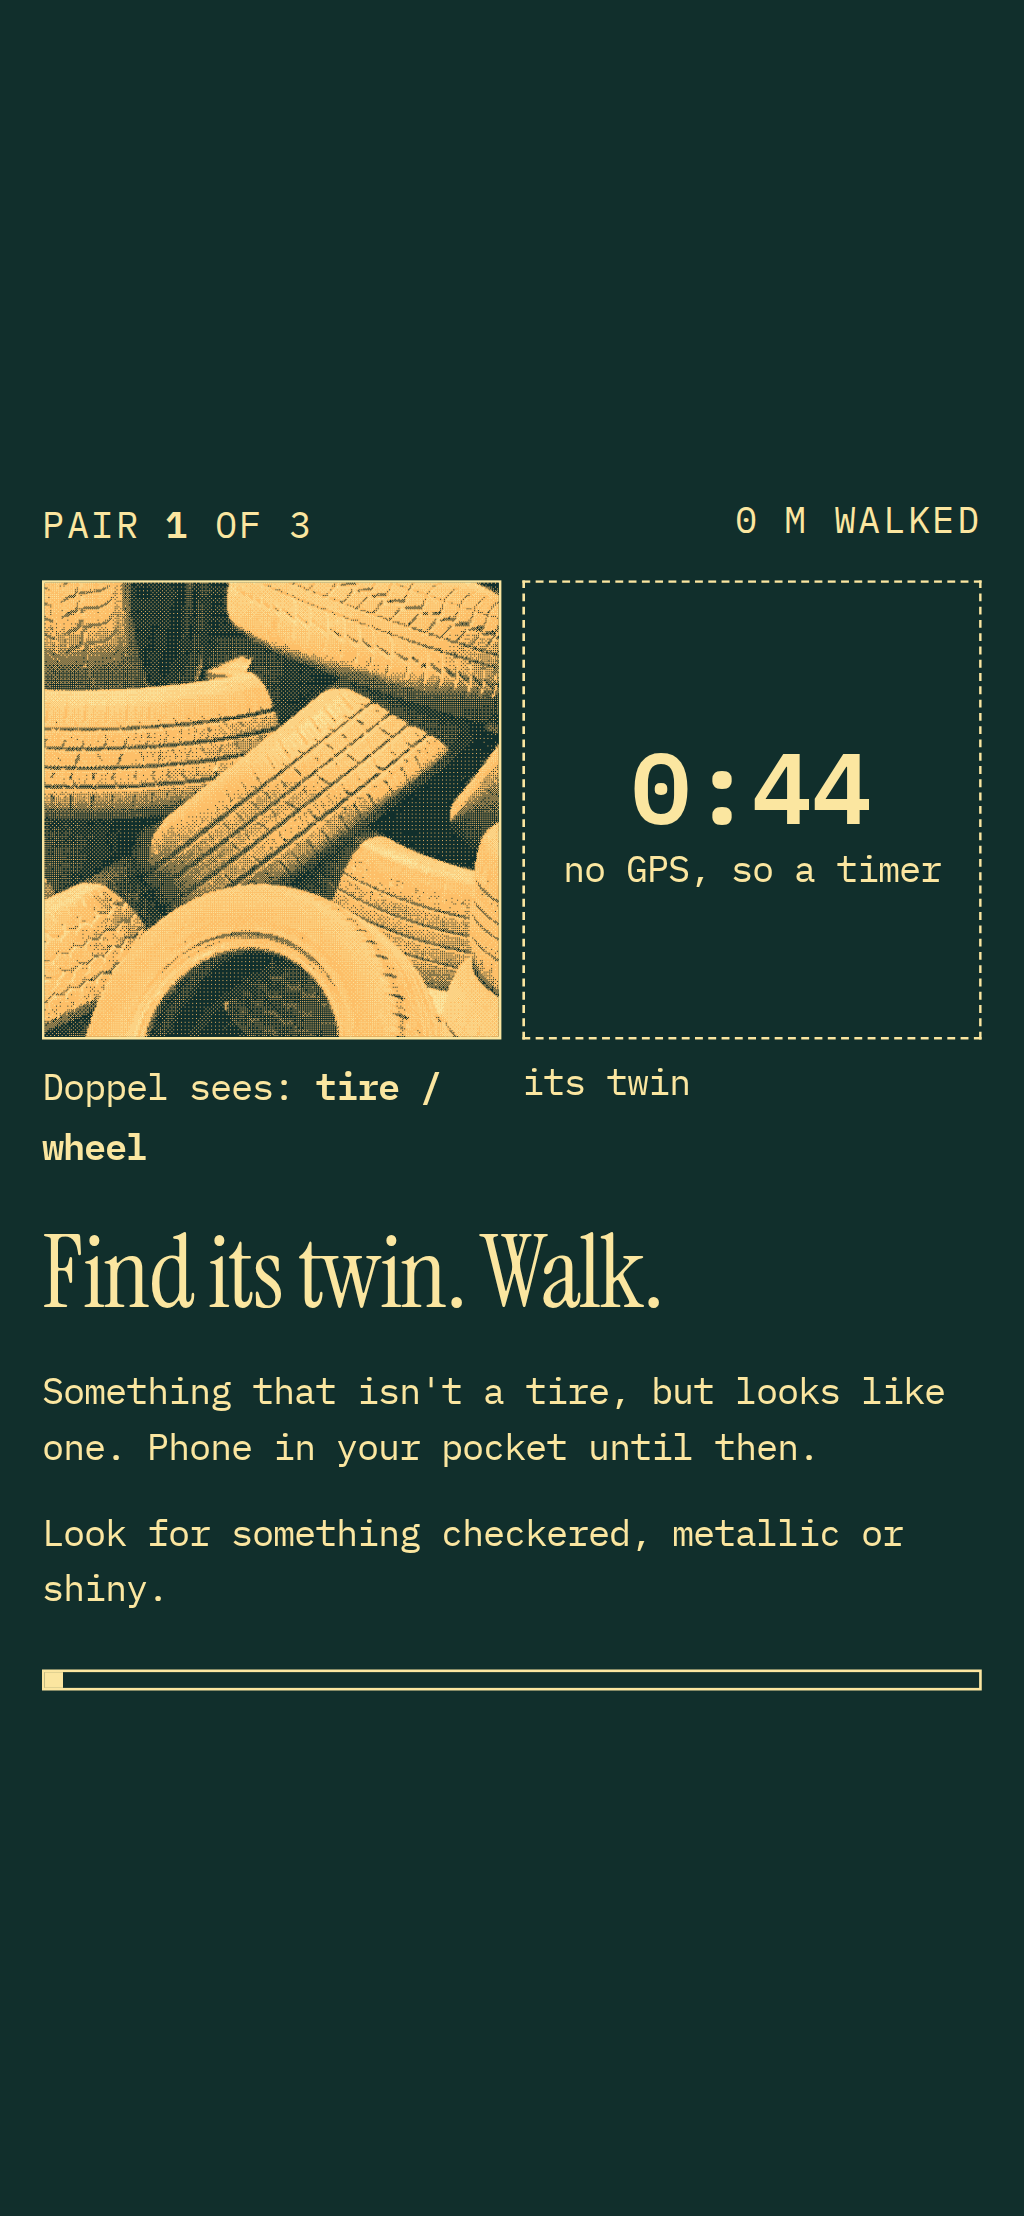
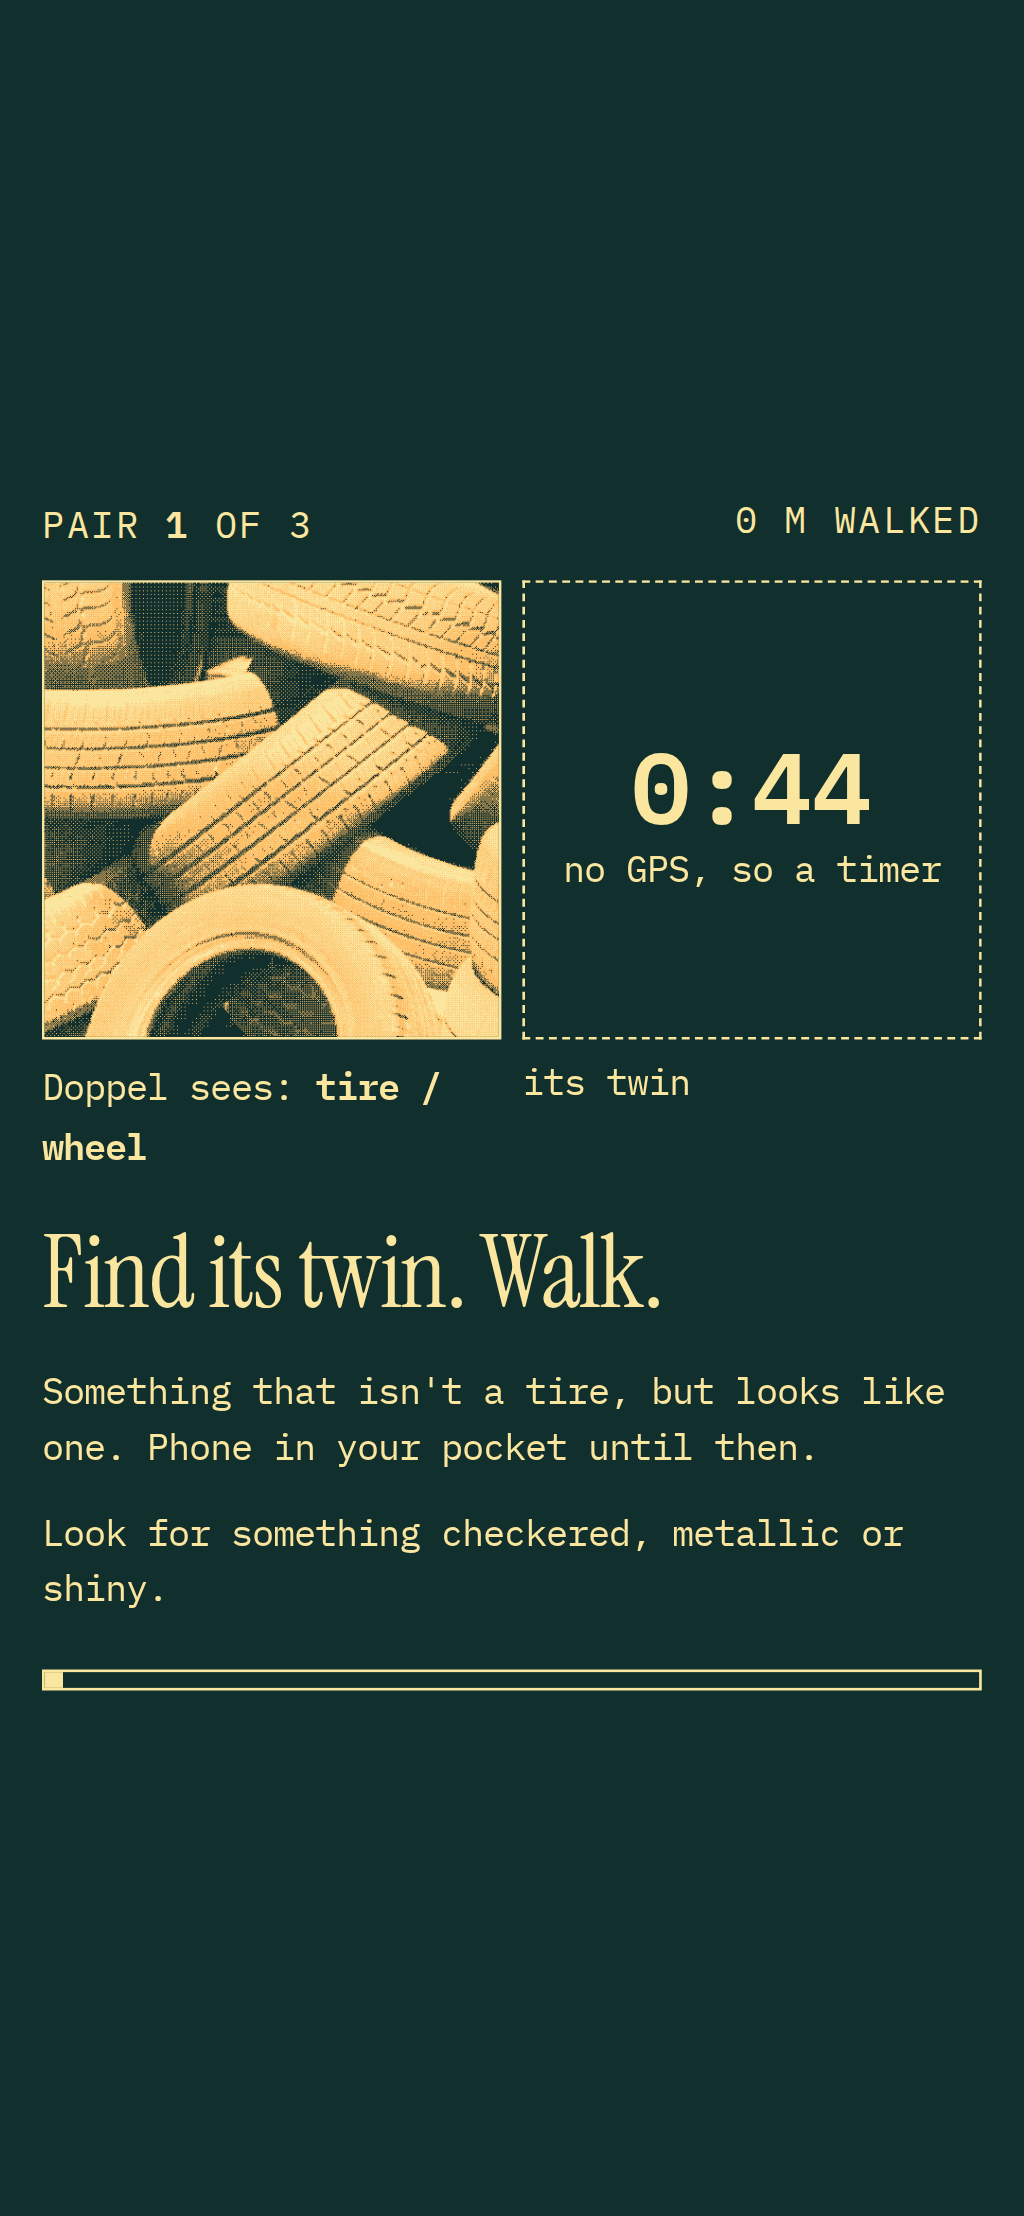
F2: auto-level photos before the Wada print (readable practice cloud)

Changed region(s): [[0.0312, 0.2491, 0.5, 0.4671]]

diff --git a/web/src/print.ts b/web/src/print.ts
@@ -20,15 +20,34 @@ export function inksFor(tone: Tone): Rgb[] {
   return [GROUND, RAMP[start], RAMP[start + 1]];
 }
 
-/** Map RGBA pixels in place. Exported for tests. */
+const luma = (px: Uint8ClampedArray, i: number) => (0.2126 * px[i] + 0.7152 * px[i + 1] + 0.0722 * px[i + 2]) / 255;
+
+/** Luminance at the 2nd and 98th percentiles (auto-level range). Exported for tests. */
+export function levelRange(px: Uint8ClampedArray, lo = 0.02, hi = 0.98): [number, number] {
+  const hist = new Uint32Array(256);
+  for (let i = 0; i < px.length; i += 4) hist[Math.round(luma(px, i) * 255)]++;
+  const n = px.length / 4;
+  const at = (q: number) => {
+    let c = 0;
+    for (let v = 0; v < 256; v++) if ((c += hist[v]) >= q * n) return v / 255;
+    return 1;
+  };
+  return [at(lo), at(hi)];
+}
+
+/** Map RGBA pixels in place: auto-level (2nd-98th percentile), then dither into the inks. Exported for tests. */
 export function printPixels(px: Uint8ClampedArray, width: number, tone: Tone) {
   const inks = inksFor(tone);
   const levels = inks.length - 1;
+  // A pale sky or a dim forest uses a sliver of the range; stretch it so the
+  // print shows the object, not a flat field of one ink.
+  const [lo, hi] = levelRange(px);
+  const span = Math.max(hi - lo, 1 / 255);
   for (let i = 0; i < px.length; i += 4) {
     const p = i / 4;
     const x = p % width;
     const y = (p / width) | 0;
-    const lum = (0.2126 * px[i] + 0.7152 * px[i + 1] + 0.0722 * px[i + 2]) / 255;
+    const lum = Math.min(1, Math.max(0, (luma(px, i) - lo) / span));
     const v = lum * levels;
     const base = Math.min(levels - 1, Math.floor(v));
     const ink = inks[v - base > BAYER[(y & 3) * 4 + (x & 3)] ? base + 1 : base];

diff --git a/web/tests/unit/print.test.ts b/web/tests/unit/print.test.ts
@@ -1,0 +1,29 @@
+import { describe, expect, it } from "vitest";
+import { inksFor, levelRange, printPixels } from "../../src/print";
+
+const gray = (vals: number[]) => Uint8ClampedArray.from(vals.flatMap((v) => [v, v, v, 255]));
+
+describe("print auto-level", () => {
+  it("finds the 2nd-98th percentile luminance", () => {
+    const vals = Array.from({ length: 100 }, (_, i) => 150 + i); // 150..249, a pale low-contrast image
+    const [lo, hi] = levelRange(gray(vals));
+    expect(Math.round(lo * 255)).toBe(151);
+    expect(Math.round(hi * 255)).toBe(247);
+  });
+  it("a low-contrast image still prints with the darkest and the lightest ink", () => {
+    const vals = Array.from({ length: 256 }, (_, i) => 180 + (i % 40)); // narrow, pale
+    const px = gray(vals);
+    printPixels(px, 16, "uncanny");
+    const inks = inksFor("uncanny").map((c) => c.join(","));
+    const used = new Set<string>();
+    for (let i = 0; i < px.length; i += 4) used.add(`${px[i]},${px[i + 1]},${px[i + 2]}`);
+    expect(used.has(inks[0])).toBe(true);
+    expect(used.has(inks[2])).toBe(true);
+  });
+  it("uses only ink colors and survives a flat image", () => {
+    const px = gray(Array(64).fill(128));
+    printPixels(px, 8, "neutral");
+    const inks = new Set(inksFor("neutral").map((c) => c.join(",")));
+    for (let i = 0; i < px.length; i += 4) expect(inks.has(`${px[i]},${px[i + 1]},${px[i + 2]}`)).toBe(true);
+  });
+});
